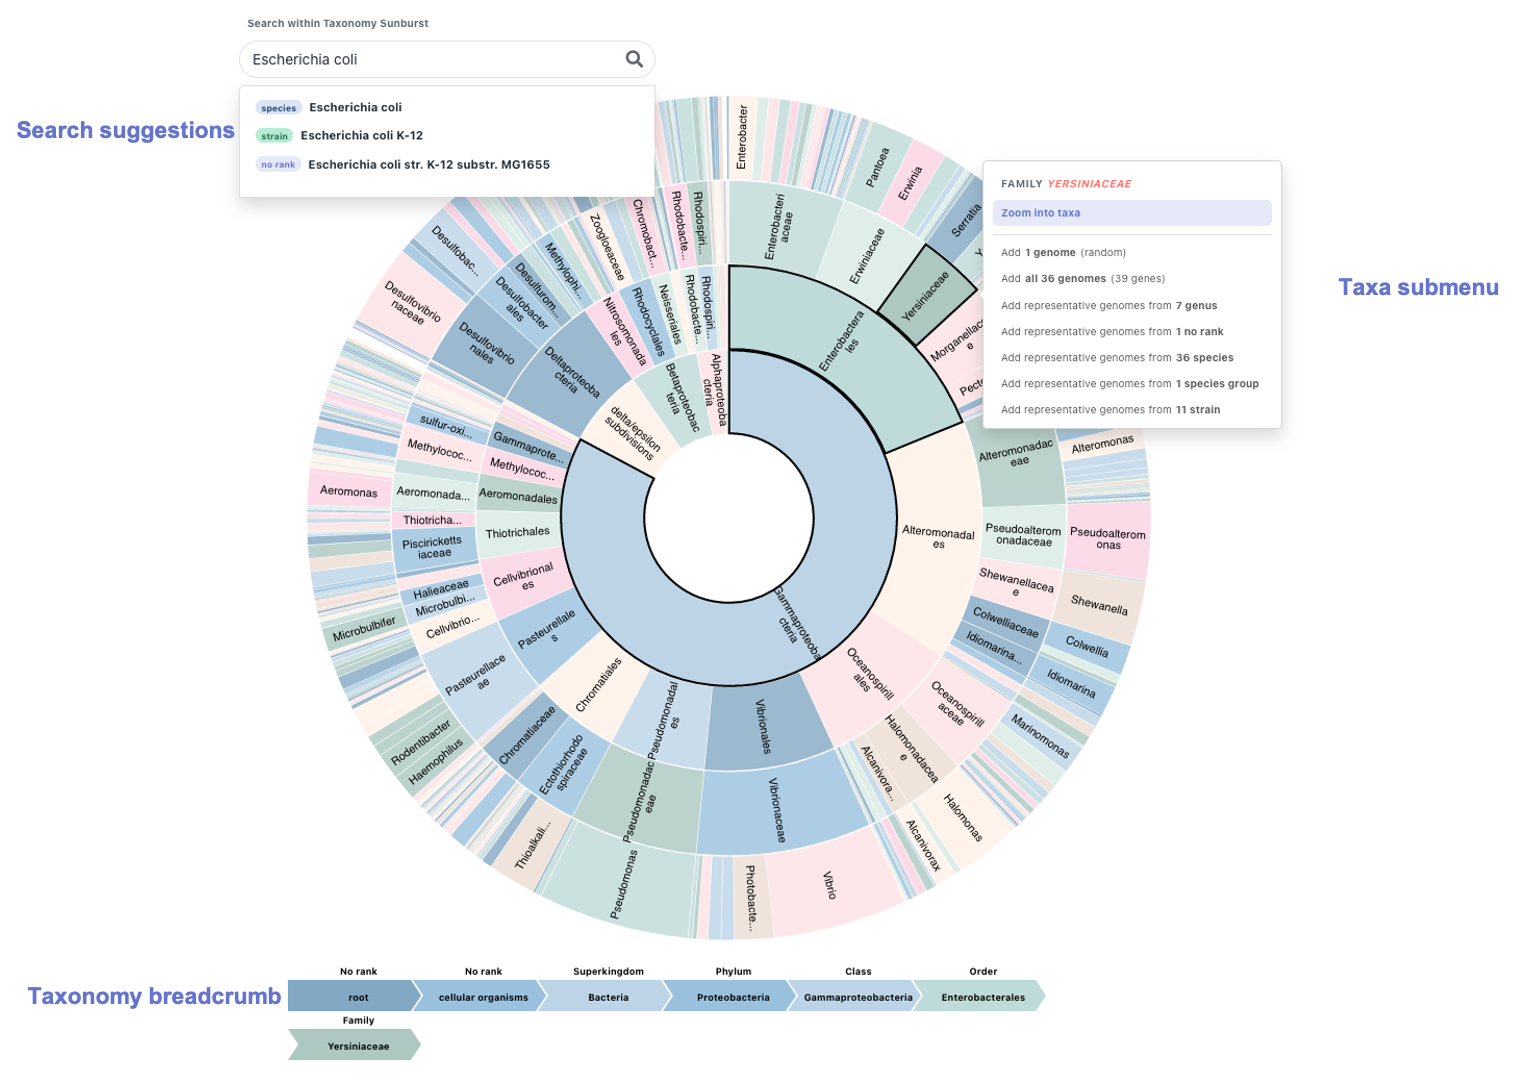
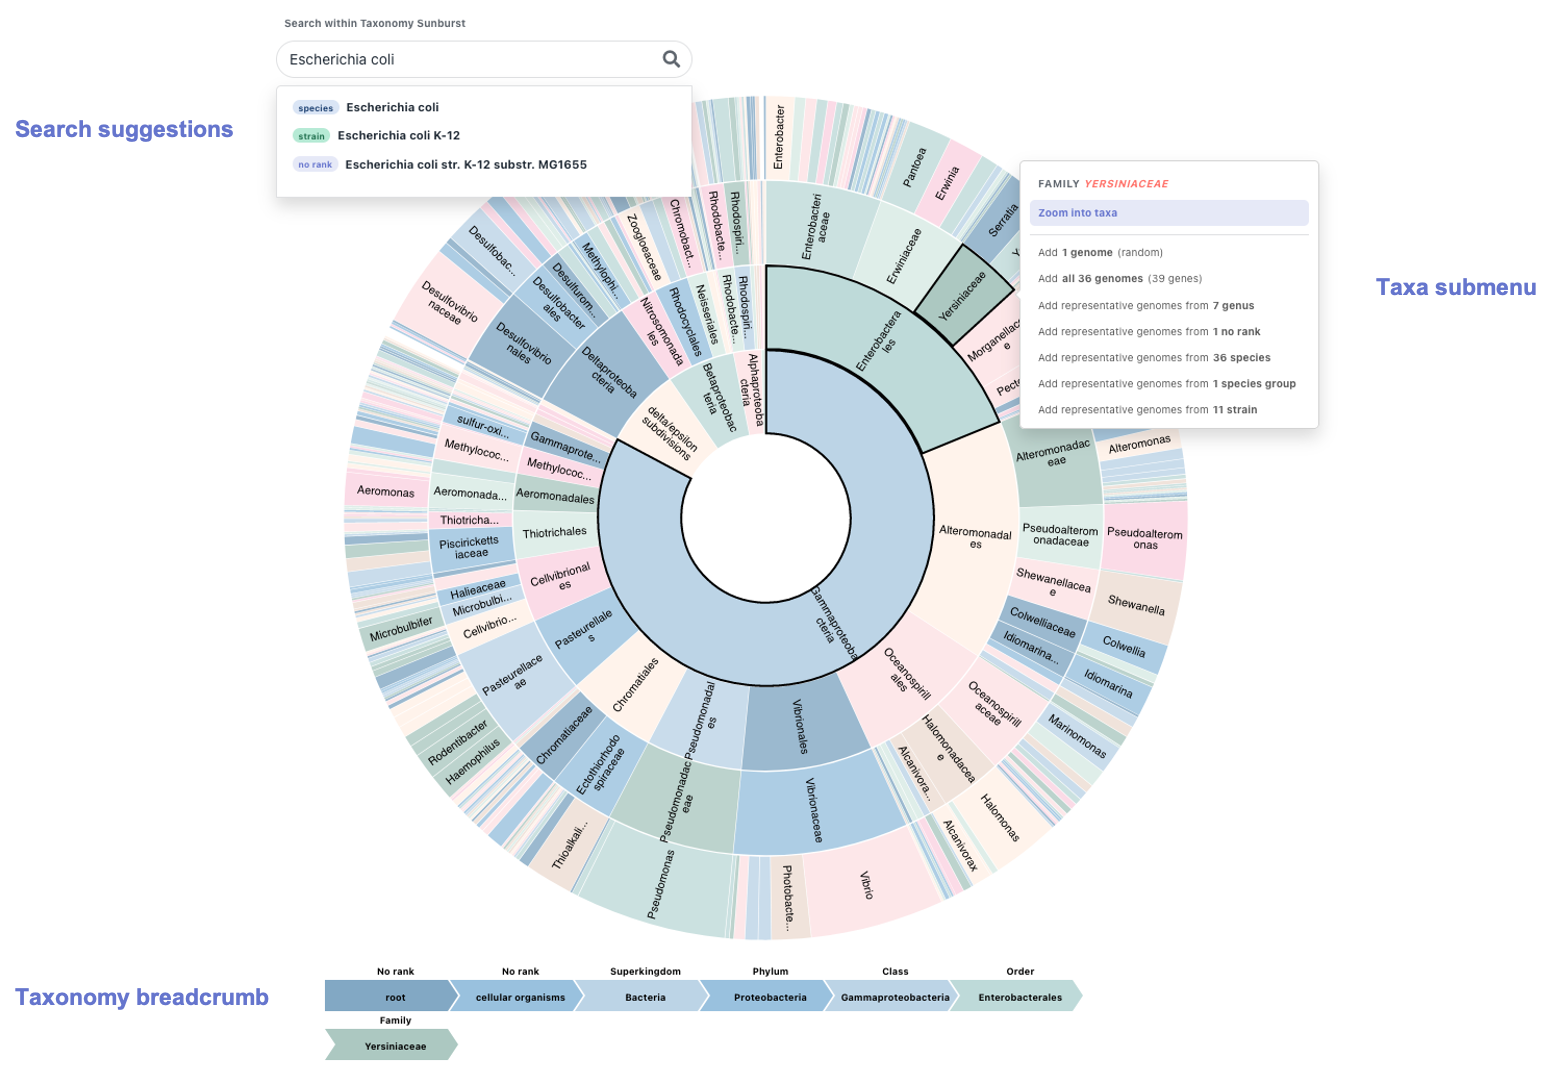
extending help page

diff --git a/gecoviz/templates/gecoviz/help/help.html b/gecoviz/templates/gecoviz/help/help.html
@@ -82,7 +82,7 @@
                   <img src="{% static "gecoviz/img/sunburst.png" %}"
                        alt="Sunburst taxonomy selector"
                        class="mt-2"
-                       style="width:95%; height:auto; max-width:50rem"/>
+                       style="width:95%; height:auto; max-width:80rem"/>
               </div>
               <div class="pt-4 mr-5">
                   An interactive, dynamic, zoomable sunburst acts as the
